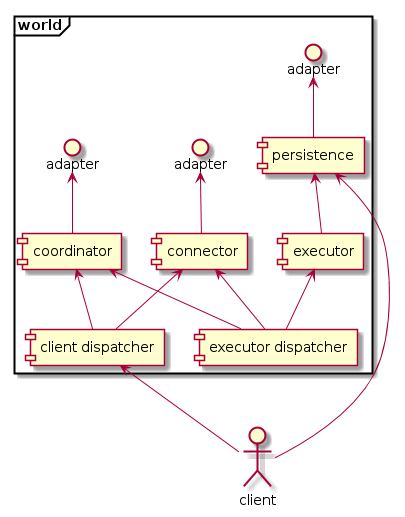
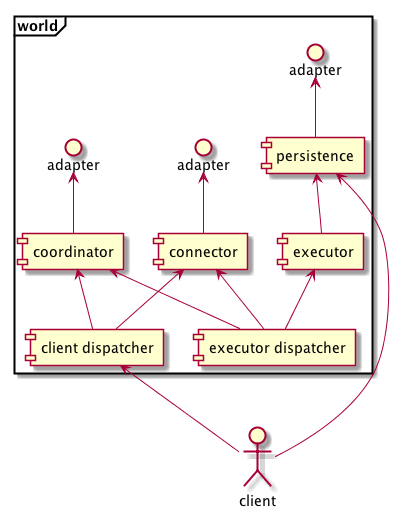
Update

diff --git a/documentation/index.html b/documentation/index.html
@@ -336,8 +336,8 @@ executor process.</em></li>
 <!-- Generated by graphviz version 2.38.0 (20140413.2041)
  -->
 <!-- Title: Graphviz Pages: 1 -->
-<svg role="img" aria-label="" width="376pt" height="44pt"
- viewBox="0.00 0.00 376.09 44.00"  >
+<svg role="img" aria-label="" width="374pt" height="44pt"
+ viewBox="0.00 0.00 373.82 44.00"  >
 <title></title>
 <desc>digraph &quot;Graphviz&quot; { 
 rankdir=LR
@@ -346,41 +346,41 @@ Trigger -&gt; Plan -&gt; Run -&gt; Finalize
 
 <g id="graph0" class="graph" transform="scale(1 1) rotate(0) translate(4 40)">
 <title>Graphviz</title>
-<polygon fill="transparent" stroke="none" points="-4,4 -4,-40 372.087,-40 372.087,4 -4,4"/>
+<polygon fill="transparent" stroke="none" points="-4,4 -4,-40 369.822,-40 369.822,4 -4,4"/>
 <!-- Trigger -->
 <g id="node1" class="node"><title>Trigger</title>
-<ellipse fill="none" stroke="black" cx="37.0467" cy="-18" rx="37.0935" ry="18"/>
-<text text-anchor="middle" x="37.0467" y="-14.3" font-family="Times,serif" font-size="14.00">Trigger</text>
+<ellipse fill="none" stroke="black" cx="36.3177" cy="-18" rx="36.1363" ry="18"/>
+<text text-anchor="middle" x="36.3177" y="-13.8" font-family="Times,serif" font-size="14.00">Trigger</text>
 </g>
 <!-- Plan -->
 <g id="node2" class="node"><title>Plan</title>
-<ellipse fill="none" stroke="black" cx="137.093" cy="-18" rx="27" ry="18"/>
-<text text-anchor="middle" x="137.093" y="-14.3" font-family="Times,serif" font-size="14.00">Plan</text>
+<ellipse fill="none" stroke="black" cx="135.635" cy="-18" rx="27" ry="18"/>
+<text text-anchor="middle" x="135.635" y="-13.8" font-family="Times,serif" font-size="14.00">Plan</text>
 </g>
 <!-- Trigger&#45;&gt;Plan -->
 <g id="edge1" class="edge"><title>Trigger&#45;&gt;Plan</title>
-<path fill="none" stroke="black" d="M74.2771,-18C82.562,-18 91.371,-18 99.6641,-18"/>
-<polygon fill="black" stroke="black" points="99.8147,-21.5001 109.815,-18 99.8146,-14.5001 99.8147,-21.5001"/>
+<path fill="none" stroke="black" d="M72.7269,-18C81.0572,-18 89.9484,-18 98.318,-18"/>
+<polygon fill="black" stroke="black" points="98.559,-21.5001 108.559,-18 98.559,-14.5001 98.559,-21.5001"/>
 </g>
 <!-- Run -->
 <g id="node3" class="node"><title>Run</title>
-<ellipse fill="none" stroke="black" cx="227.093" cy="-18" rx="27" ry="18"/>
-<text text-anchor="middle" x="227.093" y="-14.3" font-family="Times,serif" font-size="14.00">Run</text>
+<ellipse fill="none" stroke="black" cx="225.635" cy="-18" rx="27" ry="18"/>
+<text text-anchor="middle" x="225.635" y="-13.8" font-family="Times,serif" font-size="14.00">Run</text>
 </g>
 <!-- Plan&#45;&gt;Run -->
 <g id="edge2" class="edge"><title>Plan&#45;&gt;Run</title>
-<path fill="none" stroke="black" d="M164.496,-18C172.487,-18 181.404,-18 189.918,-18"/>
-<polygon fill="black" stroke="black" points="190.012,-21.5001 200.012,-18 190.012,-14.5001 190.012,-21.5001"/>
+<path fill="none" stroke="black" d="M163.038,-18C171.029,-18 179.946,-18 188.459,-18"/>
+<polygon fill="black" stroke="black" points="188.554,-21.5001 198.554,-18 188.554,-14.5001 188.554,-21.5001"/>
 </g>
 <!-- Finalize -->
 <g id="node4" class="node"><title>Finalize</title>
-<ellipse fill="none" stroke="black" cx="329.09" cy="-18" rx="38.9931" ry="18"/>
-<text text-anchor="middle" x="329.09" y="-14.3" font-family="Times,serif" font-size="14.00">Finalize</text>
+<ellipse fill="none" stroke="black" cx="327.229" cy="-18" rx="38.6869" ry="18"/>
+<text text-anchor="middle" x="327.229" y="-13.8" font-family="Times,serif" font-size="14.00">Finalize</text>
 </g>
 <!-- Run&#45;&gt;Finalize -->
 <g id="edge3" class="edge"><title>Run&#45;&gt;Finalize</title>
-<path fill="none" stroke="black" d="M254.105,-18C261.925,-18 270.77,-18 279.555,-18"/>
-<polygon fill="black" stroke="black" points="279.775,-21.5001 289.775,-18 279.775,-14.5001 279.775,-21.5001"/>
+<path fill="none" stroke="black" d="M252.802,-18C260.673,-18 269.568,-18 278.382,-18"/>
+<polygon fill="black" stroke="black" points="278.626,-21.5001 288.626,-18 278.625,-14.5001 278.626,-21.5001"/>
 </g>
 </g>
 </svg>

diff --git a/css/app.css b/css/app.css
@@ -5659,6 +5659,9 @@ body {
   .toc.well.affix {
     width: 360px; } }
 
+.page p img {
+  max-width: 100%; }
+
 @media (max-width: 991px) {
   .affix {
     position: static;
